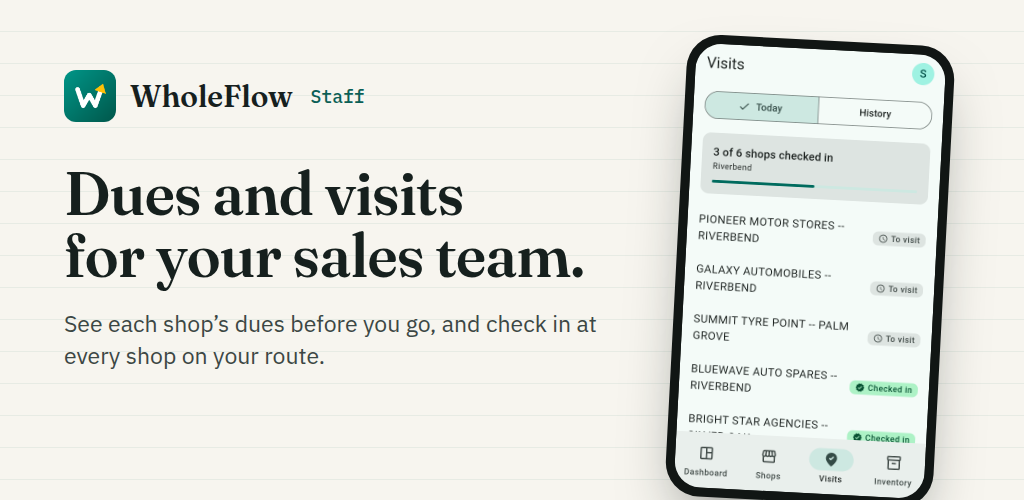
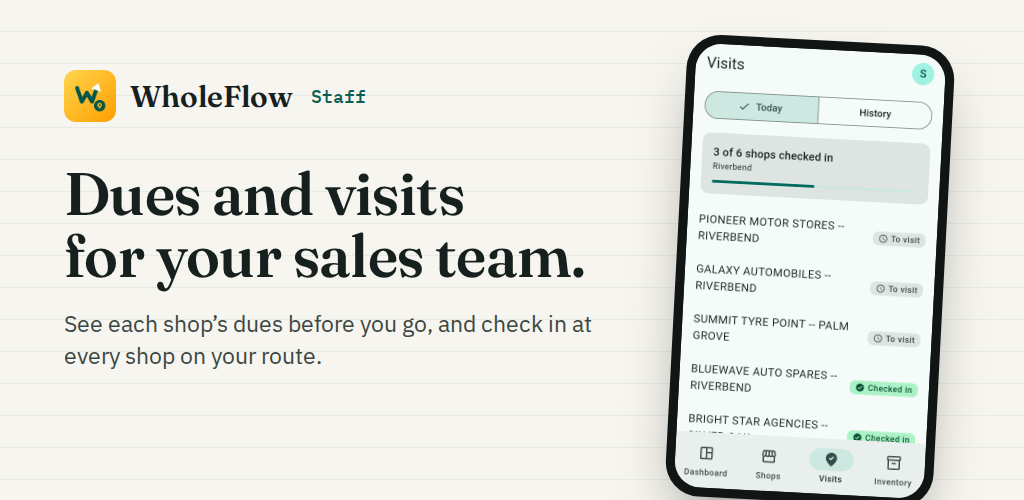
Refactor code structure for improved readability and maintainability

diff --git a/website/tools/play-feature.html b/website/tools/play-feature.html
@@ -23,7 +23,7 @@
 </style></head>
 <body>
   <div class="copy">
-    <div class="brand"><img src="../assets/img/icon-192.png" alt="">WholeFlow <small id="role">Owner</small></div>
+    <div class="brand"><img id="icon" src="../assets/img/icon-192.png" alt="">WholeFlow <small id="role">Owner</small></div>
     <h1 id="title">Your Tally dues,<br>in your pocket.</h1>
     <p id="text">Outstanding, overdue bills and stock from TallyPrime, on your phone.</p>
   </div>
@@ -31,6 +31,7 @@
   <script>
     if (new URLSearchParams(location.search).get('app') === 'staff') {
       document.getElementById('role').textContent = 'Staff';
+      document.getElementById('icon').src = '../../wholeflow_app/assets/icon/staff/icon.png';
       document.getElementById('title').innerHTML = 'Dues and visits<br>for your sales team.';
       document.getElementById('text').textContent = 'See each shop’s dues before you go, and check in at every shop on your route.';
       document.getElementById('shot').src = '../../wholeflow_app/test/marketing/out/play/staff-visits.png';

diff --git a/wholeflow_app/tool/app_icon/generate.py b/wholeflow_app/tool/app_icon/generate.py
@@ -1,17 +1,25 @@
 #!/usr/bin/env python3
-"""Generates the WholeFlow app icon PNGs used by flutter_launcher_icons.
+"""Generates the WholeFlow app icons: Owner (teal) and Staff (amber, with a map pin).
 
 Mark: a bold "W" drawn as one continuous stroke whose last leg rises into an
-arrow (money flowing in), white on a teal gradient, arrowhead in amber.
+arrow (money flowing in). Owner: white on a teal gradient, arrowhead in amber.
+Staff: teal on an amber gradient, arrowhead white, plus a map-pin badge so the
+two apps differ in shape too (Android 13+ themed icons drop the colours).
 
-Outputs (assets/icon/):
+Owner outputs (assets/icon/), turned into android/app/src/main/res and the iOS
+icons by flutter_launcher_icons (config in pubspec.yaml):
   icon.svg         source artwork (full-bleed square)
   icon.png         1024 px, full-bleed: iOS and the legacy Android icon
   background.png   1024 px teal gradient: adaptive-icon background layer
   foreground.png   1024 px transparent: adaptive-icon foreground, inside the safe zone
   monochrome.png   1024 px white-on-transparent: Android 13+ themed icon
 
-Run from wholeflow_app/ (needs cairosvg):
+Staff outputs: the same five files in assets/icon/staff/, plus the launcher
+PNGs in android/app/src/staff/res/ (written here directly: flutter_launcher_icons
+can't do one flavor without taking over the others) and store/staff/icon-512.png.
+The staff flavor reuses mipmap-anydpi-v26/ic_launcher.xml from src/main.
+
+Run from wholeflow_app/ (needs cairosvg and Pillow):
   python3 tool/app_icon/generate.py && dart run flutter_launcher_icons
 """
 
@@ -19,14 +27,20 @@ import math
 import pathlib
 
 import cairosvg
+from PIL import Image
 
-OUT = pathlib.Path(__file__).resolve().parents[2] / "assets" / "icon"
+APP = pathlib.Path(__file__).resolve().parents[2]
+OUT = APP / "assets" / "icon"
+STAFF_OUT = OUT / "staff"
+STAFF_RES = APP / "android" / "app" / "src" / "staff" / "res"
 SIZE = 1024
 
 TEAL_LIGHT = "#009688"
 TEAL_DARK = "#00574B"
 WHITE = "#FFFFFF"
 AMBER = "#FFC107"
+AMBER_LIGHT = "#FFD54F"
+AMBER_DARK = "#FFA000"
 
 # The "W" on a 1024 grid, centred. The last point is the arrow tip.
 # Shifted down-left so the arrow's weight doesn't pull the mark off-centre.
@@ -66,20 +80,89 @@ def mark(scale: float, stroke_color: str, head_color: str) -> str:
     )
 
 
-GRADIENT = (
-    '<defs><linearGradient id="bg" x1="0" y1="0" x2="1" y2="1">'
-    f'<stop offset="0" stop-color="{TEAL_LIGHT}"/><stop offset="1" stop-color="{TEAL_DARK}"/>'
-    "</linearGradient></defs>"
-)
+def gradient(light: str, dark: str) -> str:
+    return (
+        '<defs><linearGradient id="bg" x1="0" y1="0" x2="1" y2="1">'
+        f'<stop offset="0" stop-color="{light}"/><stop offset="1" stop-color="{dark}"/>'
+        "</linearGradient></defs>"
+    )
 
 
-def svg(body: str, background: bool) -> str:
-    bg = f'{GRADIENT}<rect width="{SIZE}" height="{SIZE}" fill="url(#bg)"/>' if background else ""
+GRADIENT = gradient(TEAL_LIGHT, TEAL_DARK)
+STAFF_GRADIENT = gradient(AMBER_LIGHT, AMBER_DARK)
+
+
+def svg(body: str, background: bool, grad: str = GRADIENT) -> str:
+    bg = f'{grad}<rect width="{SIZE}" height="{SIZE}" fill="url(#bg)"/>' if background else ""
     return f'<svg xmlns="http://www.w3.org/2000/svg" width="{SIZE}" height="{SIZE}" viewBox="0 0 {SIZE} {SIZE}">{bg}{body}</svg>'
 
 
-def render(name: str, content: str) -> None:
-    cairosvg.svg2png(bytestring=content.encode(), write_to=str(OUT / name), output_width=SIZE, output_height=SIZE)
+# Staff: the W moves up-left and a map-pin badge sits bottom-right. Offsets are
+# from the centre at full size; `k` shrinks the whole group about the centre
+# (0.8 keeps the badge inside the adaptive-icon safe circle).
+STAFF_MARK_SCALE = 0.84
+STAFF_MARK_SHIFT = -48
+BADGE_OFFSET = 190
+BADGE_R = 112
+
+
+def pin_badge(k: float, color: str) -> str:
+    """A disc with a map pin cut out of it (and the pin's dot filled back in),
+    as one even-odd path, so the pin shows whatever is behind the badge."""
+    cx = cy = SIZE / 2 + BADGE_OFFSET * k
+    r = BADGE_R * k
+    s = r / 112  # pin artwork is drawn for a 112 px disc
+    disc = f"M {cx - r:.1f} {cy:.1f} a {r:.1f} {r:.1f} 0 1 0 {2 * r:.1f} 0 a {r:.1f} {r:.1f} 0 1 0 {-2 * r:.1f} 0 Z"
+    px, py = cx, cy - 12 * s           # centre of the pin's round head
+    hr, tip = 44 * s, cy + 66 * s      # head radius, point of the pin
+    pin = (
+        f"M {px:.1f} {tip:.1f} C {px - 22 * s:.1f} {py + 40 * s:.1f} {px - hr:.1f} {py + 22 * s:.1f} {px - hr:.1f} {py:.1f} "
+        f"A {hr:.1f} {hr:.1f} 0 1 1 {px + hr:.1f} {py:.1f} "
+        f"C {px + hr:.1f} {py + 22 * s:.1f} {px + 22 * s:.1f} {py + 40 * s:.1f} {px:.1f} {tip:.1f} Z"
+    )
+    dr = 17 * s
+    dot = f"M {px - dr:.1f} {py:.1f} a {dr:.1f} {dr:.1f} 0 1 0 {2 * dr:.1f} 0 a {dr:.1f} {dr:.1f} 0 1 0 {-2 * dr:.1f} 0 Z"
+    return f'<path d="{disc} {pin} {dot}" fill="{color}" fill-rule="evenodd"/>'
+
+
+def staff_mark(k: float, stroke_color: str, head_color: str, badge_color: str) -> str:
+    shift = STAFF_MARK_SHIFT * k
+    return (
+        f'<g transform="translate({shift:.1f},{shift:.1f})">{mark(STAFF_MARK_SCALE * k, stroke_color, head_color)}</g>'
+        + pin_badge(k, badge_color)
+    )
+
+
+def render(name: str, content: str, out: pathlib.Path = OUT) -> None:
+    cairosvg.svg2png(bytestring=content.encode(), write_to=str(out / name), output_width=SIZE, output_height=SIZE)
+
+
+# Android launcher sizes, as flutter_launcher_icons writes them for src/main.
+LEGACY_PX = {"mdpi": 48, "hdpi": 72, "xhdpi": 96, "xxhdpi": 144, "xxxhdpi": 192}
+ADAPTIVE_PX = {"mdpi": 108, "hdpi": 162, "xhdpi": 216, "xxhdpi": 324, "xxxhdpi": 432}
+
+
+def resized(src: pathlib.Path, px: int, dest: pathlib.Path, mode: str) -> None:
+    dest.parent.mkdir(parents=True, exist_ok=True)
+    Image.open(src).convert(mode).resize((px, px), Image.LANCZOS).save(dest, optimize=True)
+
+
+def staff() -> None:
+    STAFF_OUT.mkdir(parents=True, exist_ok=True)
+    full = svg(staff_mark(1.0, TEAL_DARK, WHITE, TEAL_DARK), background=True, grad=STAFF_GRADIENT)
+    (STAFF_OUT / "icon.svg").write_text(full)
+    render("icon.png", full, STAFF_OUT)
+    render("background.png", svg("", background=True, grad=STAFF_GRADIENT), STAFF_OUT)
+    render("foreground.png", svg(staff_mark(0.8, TEAL_DARK, WHITE, TEAL_DARK), background=False), STAFF_OUT)
+    render("monochrome.png", svg(staff_mark(0.8, WHITE, WHITE, WHITE), background=False), STAFF_OUT)
+    for dpi, px in LEGACY_PX.items():
+        resized(STAFF_OUT / "icon.png", px, STAFF_RES / f"mipmap-{dpi}" / "ic_launcher.png", "RGB")
+    for dpi, px in ADAPTIVE_PX.items():
+        resized(STAFF_OUT / "background.png", px, STAFF_RES / f"drawable-{dpi}" / "ic_launcher_background.png", "RGB")
+        for layer in ("foreground", "monochrome"):
+            resized(STAFF_OUT / f"{layer}.png", px, STAFF_RES / f"drawable-{dpi}" / f"ic_launcher_{layer}.png", "RGBA")
+    resized(STAFF_OUT / "icon.png", 512, APP / "store" / "staff" / "icon-512.png", "RGB")
+    print(f"wrote the Staff icon to {STAFF_OUT}, {STAFF_RES} and store/staff/icon-512.png")
 
 
 def main() -> None:
@@ -94,6 +177,7 @@ def main() -> None:
     render("foreground.png", svg(mark(0.8, WHITE, AMBER), background=False))
     render("monochrome.png", svg(mark(0.8, WHITE, WHITE), background=False))
     print(f"wrote icon.svg, icon.png, background.png, foreground.png, monochrome.png to {OUT}")
+    staff()
 
 
 if __name__ == "__main__":
